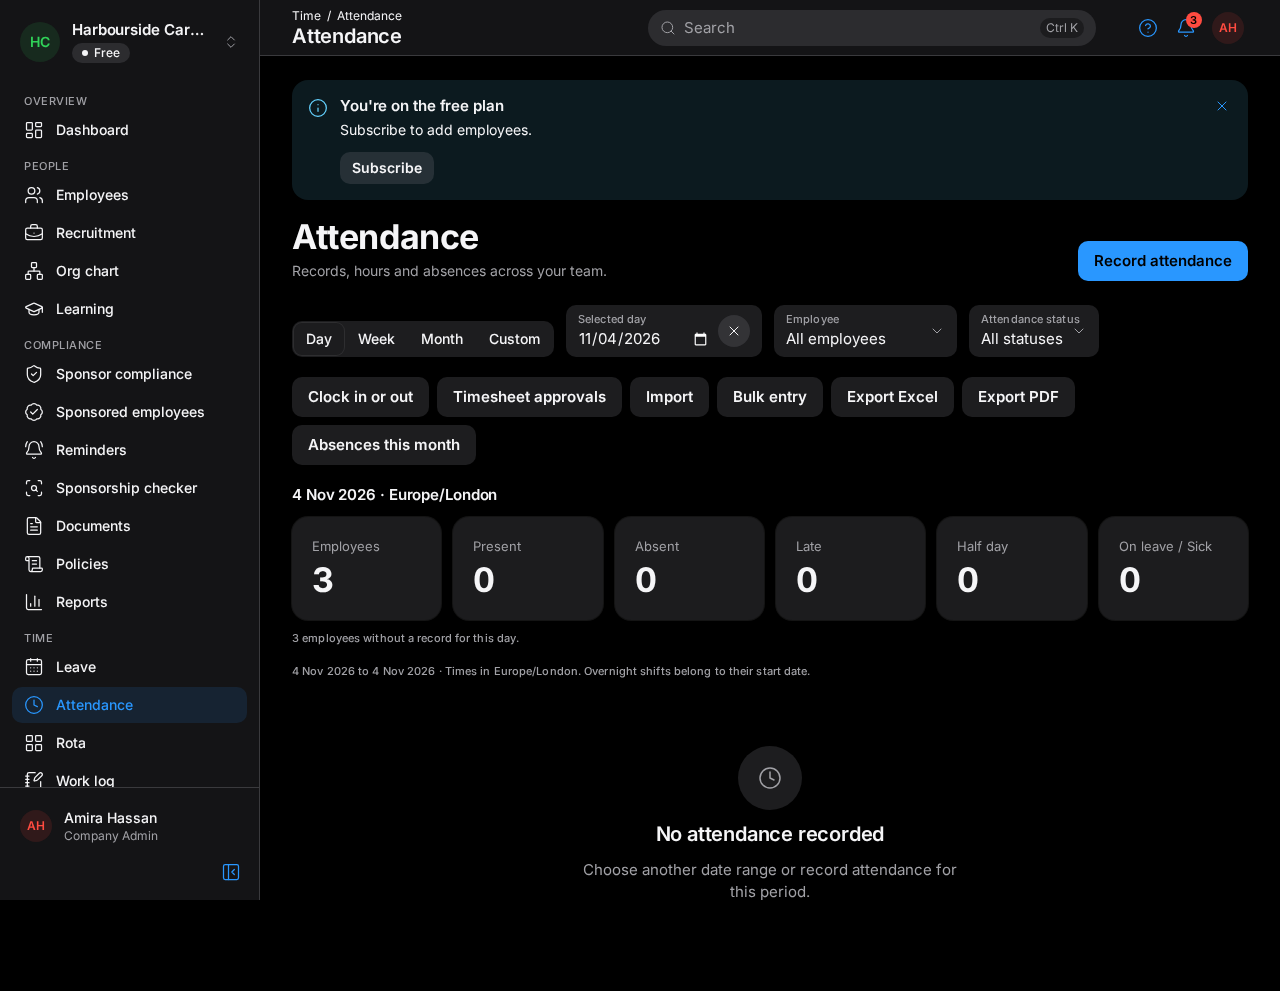
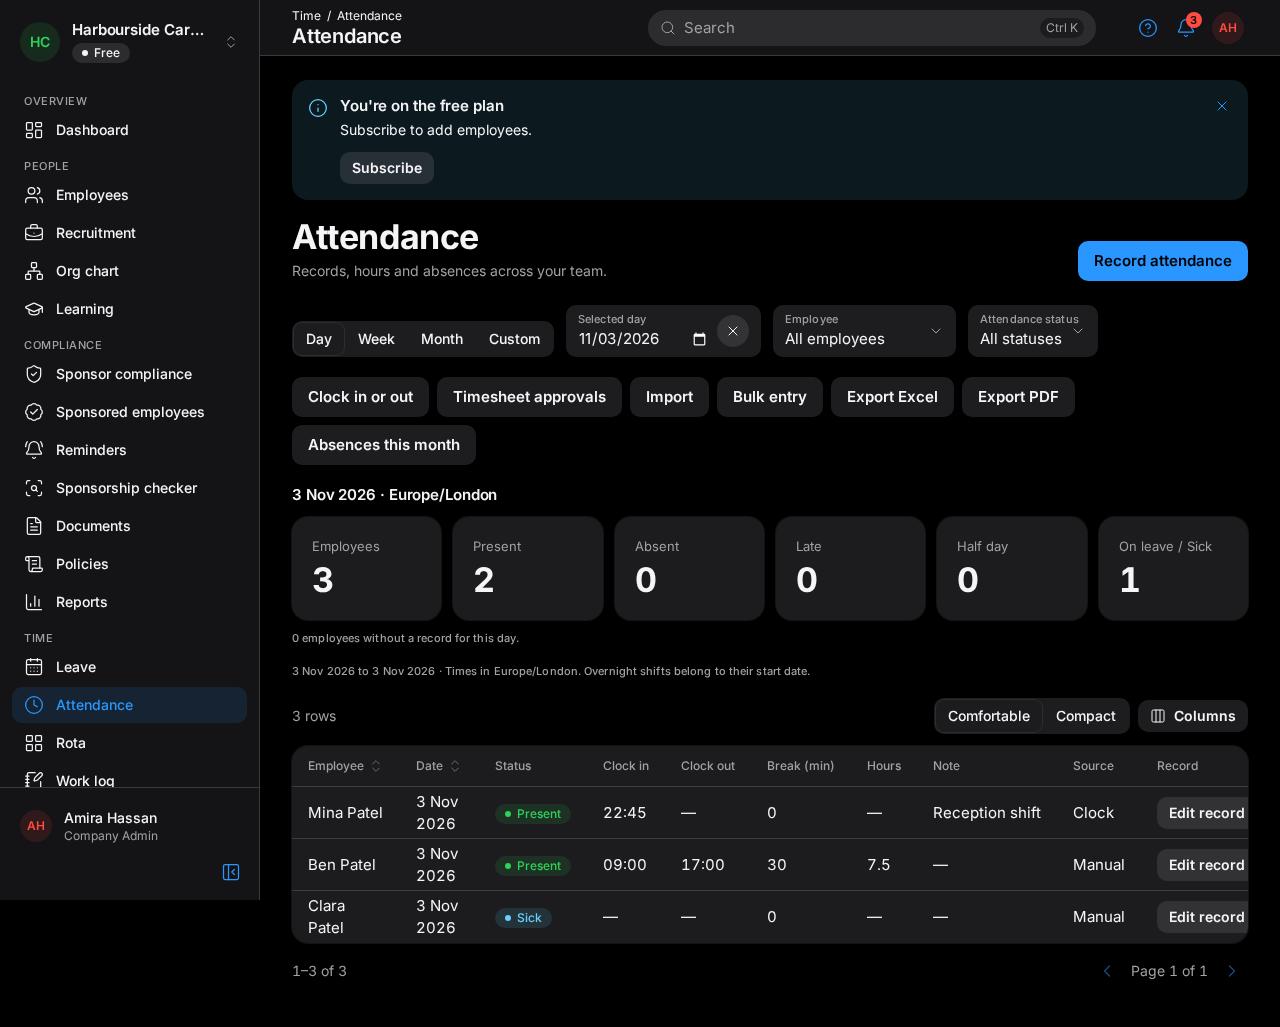
wip(Phase9): target visible attendance date control
Next: final screenshot verification, review and gate PR.

diff --git a/web/tests/e2e/phase9-screenshots.spec.ts b/web/tests/e2e/phase9-screenshots.spec.ts
@@ -257,7 +257,7 @@ for (const colorScheme of ["light", "dark"] as const) {
             .getByRole("region", { name: "Attendance workspace", exact: true })
             .getByLabel("Employee", { exact: true }),
         ).toContainText("Ben Patel");
-        await page.getByLabel("Selected day", { exact: true }).fill(day);
+        await page.getByRole("textbox", { name: "Selected day", exact: true }).fill(day);
         await expect(
           page
             .getByRole(width === 390 ? "list" : "grid", { name: "Attendance records", exact: true })

diff --git a/STATUS.md b/STATUS.md
@@ -11,7 +11,7 @@ State: IN PROGRESS
   - [x] Full web/unit/script/browser suite (sequentially)
   - [ ] 390/1280 light/dark screenshots and visual review
   - [ ] Five-line phase summary, PR dev→main and green CI merge
-- Resume note: Visual evidence mostly captured; mobile policy overflow fixed and reviewed. Final attendance screenshot wait now scopes Employee to Attendance workspace (hidden record form shares label). Run final phase9 screenshot spec, review 76 images then summary/PR. Previous full gate API/web/browser checks green.
+- Resume note: Visual evidence mostly captured; mobile policy overflow fixed and reviewed. Final attendance screenshot wait now scopes Employee to Attendance workspace (hidden record form shares label). All 76 views captured across runs. Use visible textbox role for Selected day (transition retains hidden input); final screenshot rerun, visual review then summary/PR. Previous full gate API/web/browser checks green.
 
 ## Next tasks
 - T10.1 — company documents

diff --git a/.agent/journal.md b/.agent/journal.md
@@ -208,3 +208,4 @@
 2026-11-03 22:40 | Codex | Phase9 gate | mobile overflow fixed; screenshot final inspector selector corrected to existing Open control | next final screenshots/review/PR
 2026-11-03 22:45 | Codex | Phase9 gate | final capture exposed hidden Sick option selector; scoped to records and awaited loaded employee filter | next screenshot rerun/review/PR
 2026-11-03 22:43 | Codex | Phase9 gate | scoped attendance screenshot employee readiness wait away from hidden record form | next final screenshots/review/PR
+2026-11-03 22:49 | Codex | Phase9 gate | all76 screenshots captured; date selector uses visible textbox role to exclude retained hidden input | next final screenshot verification/review/PR
